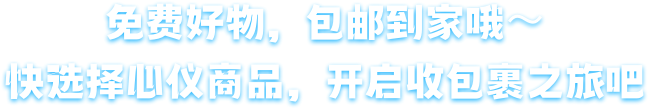
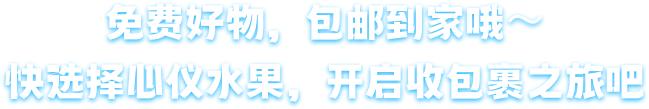
游戏Bug

Changed region(s): [[0.3082, 0.6055, 0.4314, 0.9633]]

diff --git a/collectionGame/src/pages/Collect/Mine/components/Game/components/CheckCards/index.jsx b/collectionGame/src/pages/Collect/Mine/components/Game/components/CheckCards/index.jsx
@@ -2,6 +2,7 @@ import React, { useState, useEffect } from 'react';
 import { useSelector, useDispatch } from 'umi';
 import './index.less';
 import { Button, Toast } from 'antd-mobile';
+import { useDebounceFn } from 'ahooks';
 import SwiperReceive from './components/SwiperReceive';
 import ScrollGoods from './components/ScrollGoods';
 import TitleBlock from '@/components/TitleBlock';
@@ -23,7 +24,16 @@ function index(props) {
   const [barrageList, setBarrageList] = useState([]); //游戏弹幕
   const [addressVisible, setAddressVisible] = useState(false);
   const cardLength = Object.keys(cardInfo).length;
-
+  const { run } = useDebounceFn(
+    () => {
+      cardsOk();
+    },
+    {
+      wait: 1000,
+      leading: true,
+      trailing: false,
+    },
+  );
   useEffect(() => {
     // getBrrageList();
   }, []);
@@ -44,6 +54,7 @@ function index(props) {
 
   //确认按钮
   const cardsOk = async () => {
+    console.log('111');
     if (Object.keys(addressObj).length) {
       const res = await fetchBeginGatherGame({
         identification: cardInfo.identification,
@@ -69,7 +80,7 @@ function index(props) {
       {/*左滑*/}
       <ScrollGoods list={cardList} checkCard={checkCard}></ScrollGoods>
       {/* 确认按钮 */}
-      <div className="mailButton" onClick={cardLength ? cardsOk : null}>
+      <div className="mailButton" onClick={cardLength ? run : null}>
         <div style={{ opacity: cardLength ? '1' : '0.5' }}>确认领取，开始集福豆</div>
       </div>
       {/* 领取轮播 */}

diff --git a/farmGame/src/pages/Farm/components/Content/components/Game/components/BottomContent/index.jsx b/farmGame/src/pages/Farm/components/Content/components/Game/components/BottomContent/index.jsx
@@ -377,9 +377,6 @@ export default ({ userInfo }) => {
             <Swiper.Item className="swiper_box public_center">
               卡豆可以在平台消费时抵扣使用
             </Swiper.Item>
-            <Swiper.Item className="swiper_box public_center">
-              卡豆在平台消费时最高可抵扣90%
-            </Swiper.Item>
           </Swiper>
         </div>
       </div>

diff --git a/freeGame/src/pages/index/components/components/Loding/index.jsx b/freeGame/src/pages/index/components/components/Loding/index.jsx
@@ -1,9 +1,13 @@
 import React from 'react';
 import './index.less';
+import loadingTop from '@public/usual/loadingTop.png';
 
 function index({ state, imgList = [] }) {
   return (
     <div className="loding">
+      <div className="loadingTop">
+        <img src={loadingTop} alt="" />
+      </div>
       <div className="progress">
         <div
           className="progress_content"

diff --git a/freeGame/src/pages/index/components/components/StartSupply/index.jsx b/freeGame/src/pages/index/components/components/StartSupply/index.jsx
@@ -109,7 +109,7 @@ function index(props) {
       <div className="container_rules">
         <Rules></Rules>
       </div>
-      <div className="container_text">商品已打包完毕，准备配送</div>
+      <div className="container_text">水果已打包完毕，准备配送</div>
       <div className="container_text1">送你100星豆，快去补给运输吧</div>
     </>
   );

diff --git a/freeGame/src/models/Goods/ReceiveGoods.js b/freeGame/src/models/Goods/ReceiveGoods.js
@@ -24,6 +24,9 @@ const LoginForm = {
       const response = yield call(fetchFreeGoodMainPage, payload);
       if (!response) return;
       const { content } = response;
+      if (content.freeGoodList) {
+        content.freeGoodList = content.freeGoodList.reverse();
+      }
       yield put({
         type: 'save',
         payload: {

diff --git a/freeGame/src/pages/index/components/components/Loding/index.less b/freeGame/src/pages/index/components/components/Loding/index.less
@@ -3,6 +3,14 @@
   height: 100vh;
   background: url(~@public/usual/LodingBg.png) no-repeat center;
   background-size: cover;
+  .loadingTop {
+    text-align: center;
+    padding-top: 170px;
+    img {
+      width: 493px;
+      height: 119px;
+    }
+  }
   .progress {
     width: 580px;
     height: 48px;

diff --git a/freeGame/src/pages/index/components/components/Game/components/TaskCloumn/index.less b/freeGame/src/pages/index/components/components/Game/components/TaskCloumn/index.less
@@ -130,7 +130,7 @@
       align-items: center;
       right: 0;
       right: -40px;
-      top: -8px;
+      top: -2px;
       z-index: 1;
       .taskSteps_line_num {
         display: inline-block;

diff --git a/farmGame/src/pages/Farm/components/Content/components/Game/index.less b/farmGame/src/pages/Farm/components/Content/components/Game/index.less
@@ -72,7 +72,7 @@
     }
   }
   .myGoods_nickName {
-    width: 110px;
+    padding: 0 20px;
     height: 36px;
     background: #43981b;
     border-radius: 18px;
